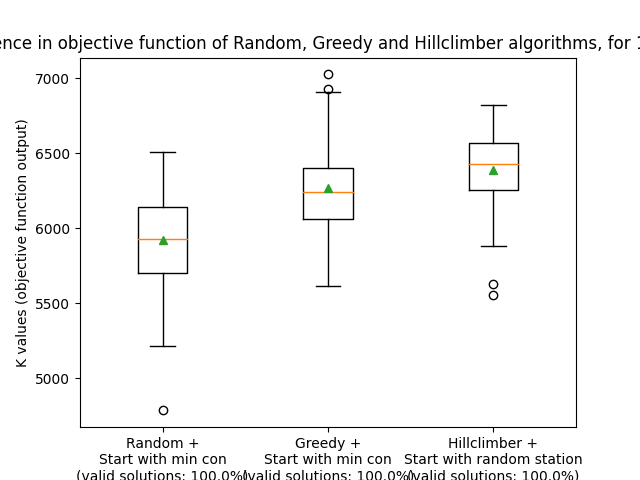
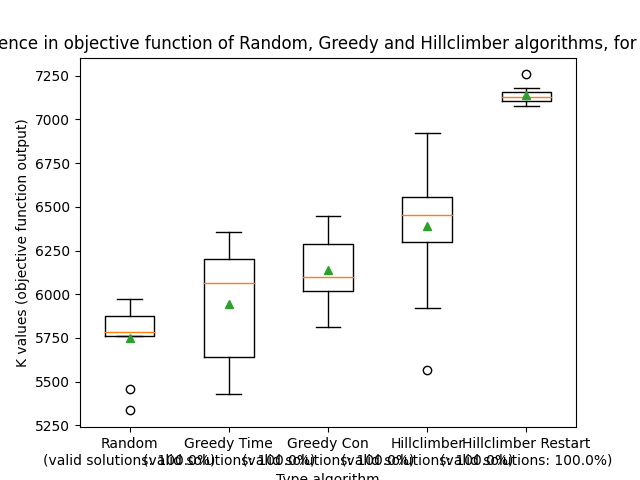
boxplot for all the algorithms and linegraph for hillclimber

diff --git a/program/boxplot.py b/program/boxplot.py
@@ -1,11 +1,11 @@
 from .network_graph import Network
 from .trajectory import Train
-from .hillclimber import climb_hill
+from .hillclimber import climb_hill, random_restart
 from statistics import mean
 
 import matplotlib.pyplot as plt
 
-def boxplot(iteration, which_regions = 'holland', start = 'random'):
+def boxplot_eind(iteration, which_regions = 'nl', start = 'random'):
     """Create a histogram of the baseline algorithm,
         showing only the viable outputs"""
 
@@ -14,54 +14,47 @@ def boxplot(iteration, which_regions = 'holland', start = 'random'):
     solutions1 = []
     solutions2 = []
     solutions3 = []
-
-    # initialise counter of number of succesful runs
-    succes = 0
-    succes1 = 0
-    succes2 = 0
-    succes3 = 0
+    solutions4 = []
 
     # run the random algorithm x number of times
     for i in range(iteration):
-        # k = run('greedy_time', which_regions, start)
-        # k1 = run('greedy_conn', which_regions, start)
-        # k2 = run('greedy_time', which_regions, start = 'min_con')
-        k1 = run('greedy_conn', which_regions, start = 'min_con')
 
-        # k = run('connect', which_regions, start)
-        # k1 = run('connect_with', which_regions, start)
-        # k2 = run('connect', which_regions, start = 'min_con')
-        k = run('connect_with', which_regions, start = 'min_con')
+        k_random = run('connect_with')
+        k_greedy_time = run('greedy_time')
+        k_greedy_conn = run('greedy_conn')
 
-        k2 = run('hillclimber', which_regions, start)
-        # k1 = run('hillclimber', which_regions, start = 'min_con')
+        hill = climb_hill(False, 100, 'connect_with')
+        k_hill = hill.calc_k()
+        
+        random = random_restart(100, 50, 'greedy_conn')
+        k_restart = random.calc_k()
+
+        print(f'rand {k_random}')
+        print(f'time {k_greedy_time}')
+        print(f'con {k_greedy_conn}')
+        print(f'hill {k_hill}')
+        print(f'restart {k_restart}')
 
         # check if the output of the run is viable then append to initialised list
-        if k != False:
-            solutions.append(k)
-            succes += 1
+        if k_random != False:
+            solutions.append(k_random)
         
-        if k1 != False:
-            solutions1.append(k1)
-            succes1 += 1
+        if k_greedy_time != False:
+            solutions1.append(k_greedy_time)
         
         # check if the output of the run is viable then append to initialised list
-        if k2 != False:
-            solutions2.append(k2)
-            succes2 += 1
+        if k_greedy_conn != False:
+            solutions2.append(k_greedy_conn)
         
-        # # check if the output of the run is viable then append to initialised list
-        # if k3 != False:
-        #     solutions3.append(k3)
-        #     succes3 += 1
+        # check if the output of the run is viable then append to initialised list
+        if k_hill != False:
+            solutions3.append(k_hill)
         
-    # calculate the percentage of viable outputted solutions
-    percentage_succes = (succes/iteration) * 100
-    percentage_succes1 = (succes1/iteration) * 100
-    percentage_succes2 = (succes2/iteration) * 100
-    # percentage_succes3 = (succes3/iteration) * 100
+        # check if the output of the run is viable then append to initialised list
+        if k_restart != False:
+            solutions4.append(k_restart)
 
-    data = [solutions, solutions1, solutions2]
+    data = [solutions, solutions1, solutions2, solutions3, solutions4]
 
     # Creating plot
     plt.boxplot(data, showmeans=True)
@@ -70,13 +63,40 @@ def boxplot(iteration, which_regions = 'holland', start = 'random'):
     plt.title(f"Difference in objective function of Random, Greedy and Hillclimber algorithms, for {iteration} runs")
     plt.xlabel("Type algorithm")
     plt.ylabel("K values (objective function output)")
-    plt.xticks([1, 2, 3], [f'Random +\nStart with min con\n(valid solutions: {percentage_succes}%)', f'Greedy +\nStart with min con\n(valid solutions: {percentage_succes1}%)', f'Hillclimber +\nStart with random station\n(valid solutions: {percentage_succes2}%)'])
+    plt.xticks([1, 2, 3, 4, 5], [f'Random', f'Greedy Time', f'Greedy Connection', f'Hillclimber', f'Hillclimber Restart'])
 
     # save and show the histogram
     plt.savefig('output/boxplot_difference_nl.png')
     plt.show()
 
-def run(algorithm, which_regions = 'holland', start = 'random'):
+def lineplot(which_regions = 'nl', start = 'random'):
+        # initialise list for viable solutions
+
+    hill_random = climb_hill(True, 10000, 'connect_with')
+    k_random = hill_random[1]
+
+    hill_greedy_time = climb_hill(True, 10000, 'greedy_time')
+    k_greedy_time = hill_greedy_time[1]
+
+    hill_greedy_conn = climb_hill(True, 10000, 'greedy_conn')
+    k_greedy_conn = hill_greedy_conn[1]  
+
+    # print(k_random)
+    # print(k_greedy_time)
+    # print(k_greedy_conn)
+
+    fig, ax = plt.subplots()
+    ax.plot(k_random, label = 'Random')
+    ax.plot(k_greedy_time, label = 'Greedy Time')
+    ax.plot(k_greedy_conn, label = 'Greedy Conn')
+
+    ax.legend()
+
+    # save and show the histogram
+    plt.savefig('output/lineplot_difference_nl.png')
+    plt.show()
+
+def run(algorithm, which_regions = 'nl', start = 'random'):
     """run the random algorithm and return a objective function output
             or a bool, showing that it is not a viable output"""
 
@@ -117,29 +137,24 @@ def run(algorithm, which_regions = 'holland', start = 'random'):
         trains.append(t.trajectory)
         n.add_trajectory(t)
 
-        if not algorithm == 'hillclimber':
-            # calculate values for the objective function
-            p_counter += t.station_counter
-            min += t.time
-            train_number += 1
-            if t.time > max_min:
-                max_min = t.time
-
-    if algorithm == 'hillclimber':
-        k = climb_hill(n, 100, which_regions, start)
+        # calculate values for the objective function
+        p_counter += t.station_counter
+        min += t.time
+        train_number += 1
+        if t.time > max_min:
+            max_min = t.time
 
     # check if the solution is valid (if all stations have been visited)
     if len(n.check_stations()) != 0:
         return False
 
-    if not algorithm == 'hillclimber':
-        # calculate parameters for objective function
-        total_connections = len(n.connections)
-        visited_connections = total_connections - len(n.check_connections())
-        p = visited_connections/total_connections
-        t = train_number - 1
+    # calculate parameters for objective function
+    total_connections = len(n.connections)
+    visited_connections = total_connections - len(n.check_connections())
+    p = visited_connections/total_connections
+    t = train_number - 1
 
-        # calculate objective function and return its outcome
-        k = p*10000 - (t*100 + min)
+    # calculate objective function and return its outcome
+    k = p*10000 - (t*100 + min)
     
     return k

diff --git a/program/hillclimber.py b/program/hillclimber.py
@@ -4,7 +4,7 @@ from .network_graph import Network
 import copy
 import random
  
-def climb_hill(just_hillclimb, iter_or_condstop: int, algorithm, which_regions: str = 'nl', start: str  = 'min_con'):
+def climb_hill(just_hillclimb, iter_or_condstop: int, algorithm, which_regions: str = 'nl', start: str  = 'random'):
     """Funtion that executes the hillclimber algorithm.
         It takes a network with al already produced solution,
             it randomly chooses a trajectory to delete
@@ -53,6 +53,9 @@ def climb_hill(just_hillclimb, iter_or_condstop: int, algorithm, which_regions: 
     best_solution = network
     #print(f"starting at {best_solution.calc_k()} for {which_regions}")
 
+    # make list of hillclimber outcomes
+    list_solutions = [best_solution.calc_k()]
+
     #for i in range(iterations):
     if just_hillclimb:
         # print('hiero')
@@ -60,6 +63,9 @@ def climb_hill(just_hillclimb, iter_or_condstop: int, algorithm, which_regions: 
             outcome = hill_step(best_solution, algorithm, which_regions, start)
             if outcome != False:
                 best_solution = outcome
+                list_solutions.append(best_solution.calc_k())
+            else:
+                list_solutions.append(best_solution.calc_k())
     else:
         # print('random boi')
         check_stop = 0
@@ -69,8 +75,10 @@ def climb_hill(just_hillclimb, iter_or_condstop: int, algorithm, which_regions: 
             outcome = hill_step(best_solution, algorithm, which_regions, start)
             if outcome != False:
                 best_solution = outcome
+                list_solutions.append(best_solution.calc_k())
                 check_stop = 0
             else:
+                list_solutions.append(best_solution.calc_k())
                 check_stop += 1
             
             # print current best solution 
@@ -79,7 +87,7 @@ def climb_hill(just_hillclimb, iter_or_condstop: int, algorithm, which_regions: 
                 go = False
     
     # return k for best solution network
-    return best_solution  
+    return best_solution, list_solutions  
 
 def hill_step(best_solution: "Network", algorithm, which_regions, start):
     # copy the solution network
@@ -120,7 +128,7 @@ def hill_step(best_solution: "Network", algorithm, which_regions, start):
 
 def random_restart(iterations: int, stop_after: int, algorithm: str, which_regions: str = 'nl', start: str = 'random'):
     # save best solution out of all restarts
-    print(which_regions)
+    # print(which_regions)
 
     if which_regions == 'nl':
         data_stations = 'data/StationsNationaal.csv'
@@ -130,16 +138,22 @@ def random_restart(iterations: int, stop_after: int, algorithm: str, which_regio
         data_connections = 'data/ConnectiesHolland.csv'
 
     best_sol = Network(data_stations, data_connections)
-    print(f'starting at: {best_sol.calc_k()}')
+    # print(f'starting at: {best_sol.calc_k()}')
+
+    long_list = []
 
     for i in range(iterations):
-        new_sol = climb_hill(False, stop_after, algorithm, which_regions, start)
+        new = climb_hill(False, stop_after, algorithm, which_regions, start)
+        new_sol = new[0]
 
         if new_sol.calc_k() > best_sol.calc_k():
             best_sol = new_sol
-            print(best_sol.calc_k())
+            # print(best_sol.calc_k())
+        
+        list_hill = new[1]
+        long_list = long_list + list_hill.calc_k()
 
-    return best_sol
+    return best_sol, long_list
 
 
 

diff --git a/main.py b/main.py
@@ -2,9 +2,7 @@ from program.algorithm import run
 from program.visualisation import visualize
 from program.baseline import hist
 from program.hillclimber import climb_hill, random_restart
-#from program.boxplot import boxplot
-
-from program.algorithm import run
+from program.boxplot import boxplot_eind, lineplot
 
 #run('nl')
 # # create a network and run the algorithm
@@ -27,7 +25,8 @@ from program.algorithm import run
 # hill = climb_hill(False, 50, 'connect_with')
 # print(hill.calc_k())
 
-random_restart(100, 50, 'greedy_conn', 'nl', 'min_con')
+# random_restart(100, 50, 'greedy_conn', 'nl', 'min_con')
 # hist(1000)
 
-#boxplot(1000, 'nl')
+# boxplot_eind(10)
+lineplot()
